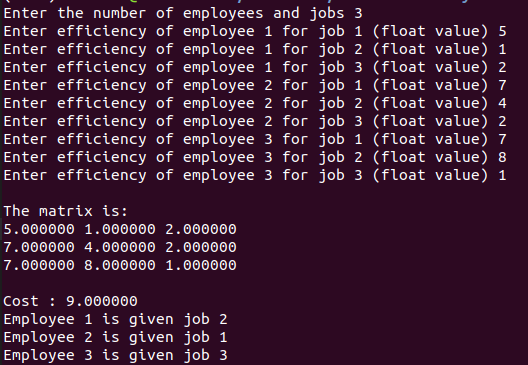
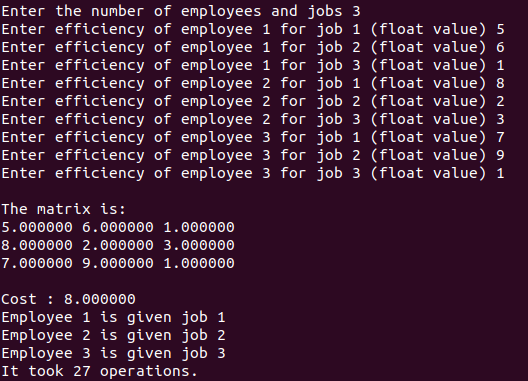
AlgorithmsLab4 Complete

Changed region(s): [[0.0, 0.0, 0.9697, 0.9945]]

diff --git a/AlgorithmsLab/Lab4-BruteForceTechnique-II/Q3BFS.c b/AlgorithmsLab/Lab4-BruteForceTechnique-II/Q3BFS.c
@@ -1,0 +1,60 @@
+#include <stdio.h>
+#include <stdlib.h>
+#include "GraphFuncs.h"
+
+void enQueue(Queue * q, GraphNode n) {
+    if (q->front == -1)
+        q->front = 0;
+    q->nodes[++(q->rear)] = n;
+}
+
+GraphNode deQueue(Queue *q) {
+    GraphNode tempNode = q->nodes[(q->front)++];
+    if (q->front > q->rear) {
+        q->front = -1;
+        q->rear = -1;
+    }
+    return tempNode;
+}
+
+void bfs(Graph g, int x, int visited[]) {
+
+    Queue q;
+    q.nodes = (GraphNode *) malloc(g.n * sizeof(GraphNode));
+    q.front = -1;
+    q.rear = -1;
+    int ind = 0;
+    Node * temp = (Node *) malloc(sizeof(Node));
+    GraphNode gtemp;
+
+    enQueue(&q,g.nodes[0]);
+    visited[0] = 1;
+    while (q.front != -1) {
+        gtemp = deQueue(&q);
+        printf("Node %d dequeued at position %d\n",gtemp.index + 1,ind++);
+        if (gtemp.val == x) {
+            printf("Value found at node %d\n",gtemp.index+1);
+            return;
+        }
+        temp = g.adjLists[gtemp.index];
+        while (temp != NULL) {
+            if (visited[temp->gNode.index] == 0) {
+                enQueue(&q,temp->gNode);
+                visited[temp->gNode.index] = 1;
+            }
+            temp = temp -> next;
+        }
+    }
+    printf("Value not found.\n");
+}
+
+void main() {
+    int n,i,x,found = 0;
+    printf("Enter number of nodes in graph ");
+    scanf("%d",&n);
+    int * visited = (int *) calloc(n,sizeof(int));
+    Graph g = createGraph(n);
+    printf("Enter value to search for ");
+    scanf("%d",&x);
+    bfs(g,x,visited);
+}

diff --git a/AlgorithmsLab/Lab4-BruteForceTechnique-II/Q2DFS.c b/AlgorithmsLab/Lab4-BruteForceTechnique-II/Q2DFS.c
@@ -1,0 +1,51 @@
+#include <stdio.h>
+#include <stdlib.h>
+#include "GraphFuncs.h"
+
+void push(Stack *s, GraphNode n) {
+    (s->nodes)[++(s->tos)] = n;
+}
+
+GraphNode pop(Stack *s) {
+    return s->nodes[(s->tos)--];
+}
+
+void dfs(Graph g, int x, int visited[]) {
+    Stack s;
+    s.tos = -1;
+    int ind = 0;
+    Node * temp = (Node *) malloc(sizeof(Node));
+    GraphNode gtemp;
+
+    push(&s,g.nodes[0]);
+    visited[0] = 1;
+    while (s.tos != -1) {
+        gtemp = pop(&s);
+        printf("Node %d popped at position %d\n",gtemp.index + 1,ind++);
+        if (gtemp.val == x) {
+            printf("Value found at node %d\n",gtemp.index+1);
+            return;
+        }
+        temp = g.adjLists[gtemp.index];
+        while (temp != NULL) {
+            if (visited[temp->gNode.index] == 0) {
+                push(&s,temp->gNode);
+                printf("Node %d pushed to stack\n",temp->gNode.index + 1);
+                visited[temp->gNode.index] = 1;
+            }
+            temp = temp -> next;
+        }
+    }
+    printf("Value not found.\n");
+}
+
+void main() {
+    int n,x;
+    printf("Enter number of nodes in graph ");
+    scanf("%d",&n);
+    int * visited = (int *) calloc(n,sizeof(int));
+    Graph g = createGraph(n);
+    printf("Enter value to search for ");
+    scanf("%d",&x);
+    dfs(g,x,visited);
+}

diff --git a/AlgorithmsLab/Lab4-BruteForceTechnique-II/Q1AssignmentProblem.c b/AlgorithmsLab/Lab4-BruteForceTechnique-II/Q1AssignmentProblem.c
@@ -11,19 +11,18 @@ void permute(int arr[], int n, double * mat[], int l, int r, double *cost, int r
     int i;
     if (l == r) {
         double tempCost = 0;
-        for (i = 0; i < n ; i++) {
-            *opCount++;
+        for (i = 0; i < n ; i++) 
             tempCost += mat[i][arr[i]];
-        } 
+        *opCount = *opCount + n + 1;
         if (*cost > tempCost) {
             *cost = tempCost;
             for(i=0;i<n;i++) 
                 res[i] = arr[i];
+            *opCount = *opCount + n;
         }
     }
     else {
         for (i = l; i <= r ; i++) {
-            *opCount+=2;
             swap(&arr[l],&arr[i]);
             permute(arr,n,mat,l+1,r,cost,res,opCount);
             swap(&arr[l],&arr[i]);

diff --git a/AlgorithmsLab/Lab4-BruteForceTechnique-II/GraphFuncs.h b/AlgorithmsLab/Lab4-BruteForceTechnique-II/GraphFuncs.h
@@ -11,9 +11,8 @@ typedef struct node {
     struct node * next;
 } Node ;
 
-
 typedef struct {
-    Node * nodes[100];
+    GraphNode nodes[100];
     int tos;
 } Stack;
 
@@ -22,6 +21,11 @@ typedef struct {
     Node ** adjLists;
     GraphNode * nodes;
 } Graph ;
+
+typedef struct {
+    GraphNode * nodes;
+    int front,rear;
+} Queue;
 
 void insertEnd(Node **, GraphNode );
 Graph createGraph(int);
